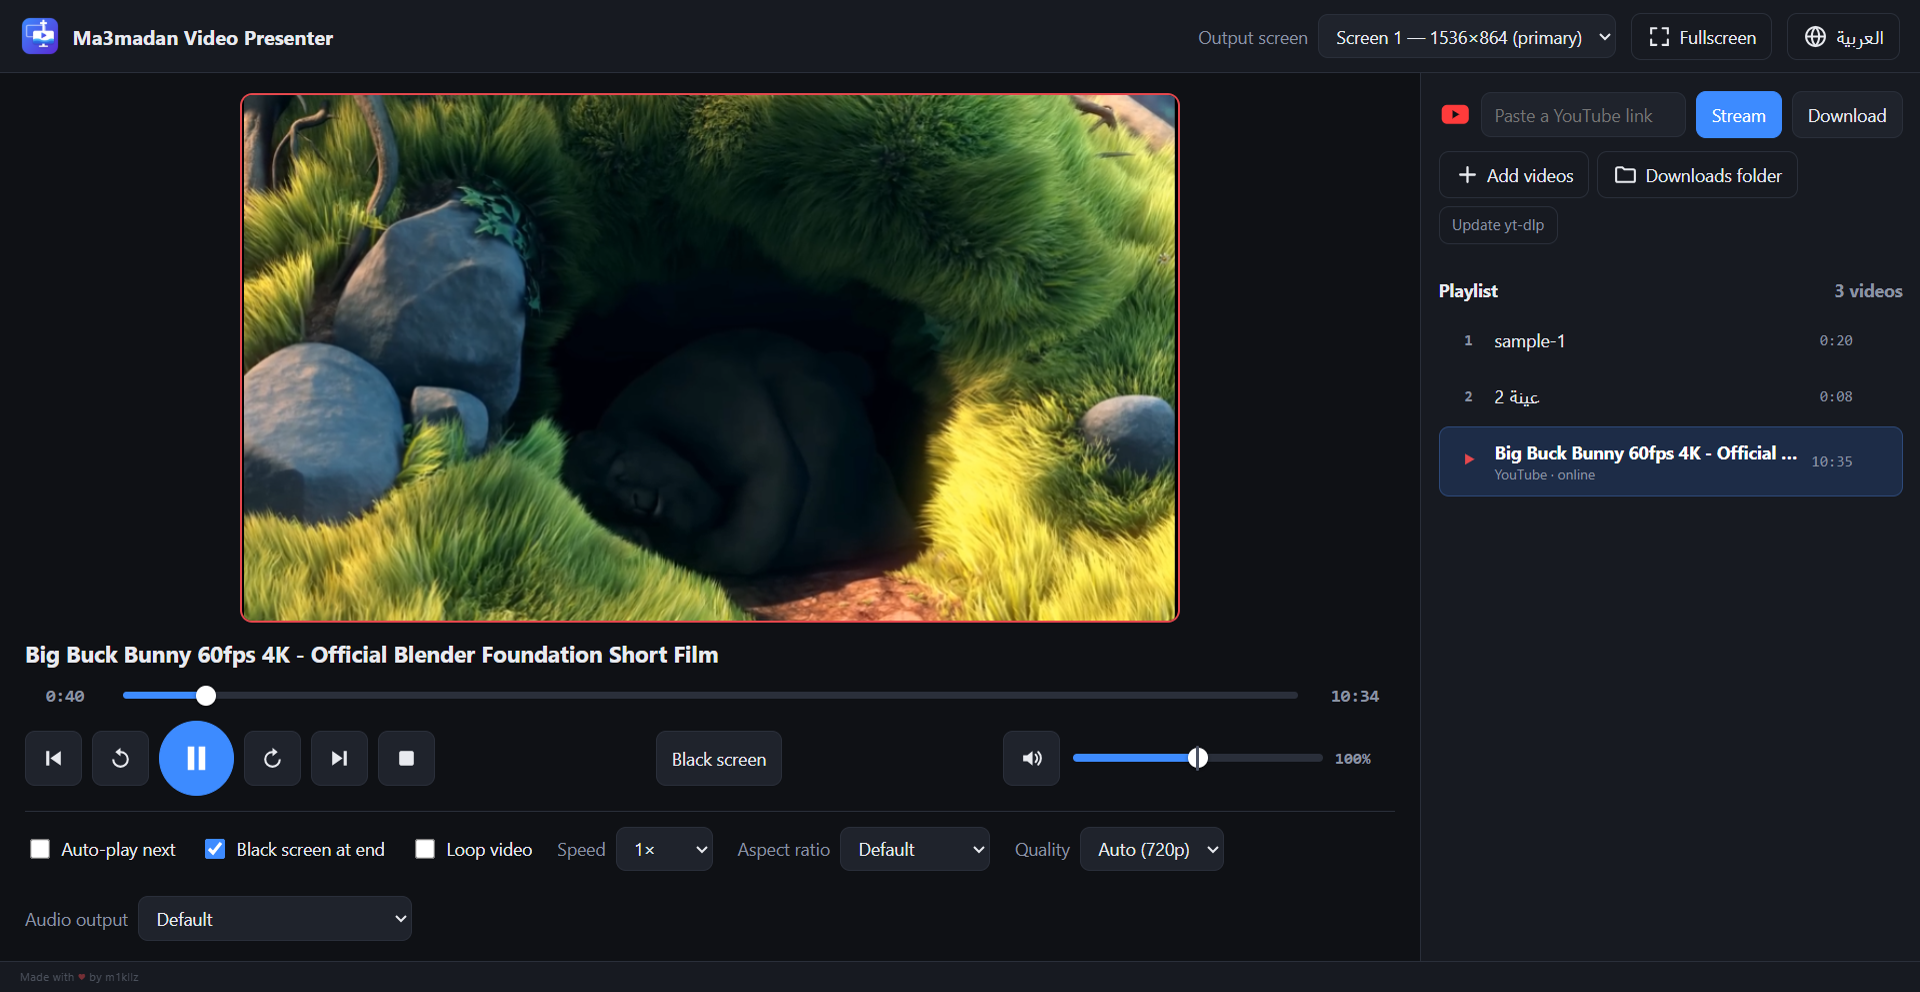
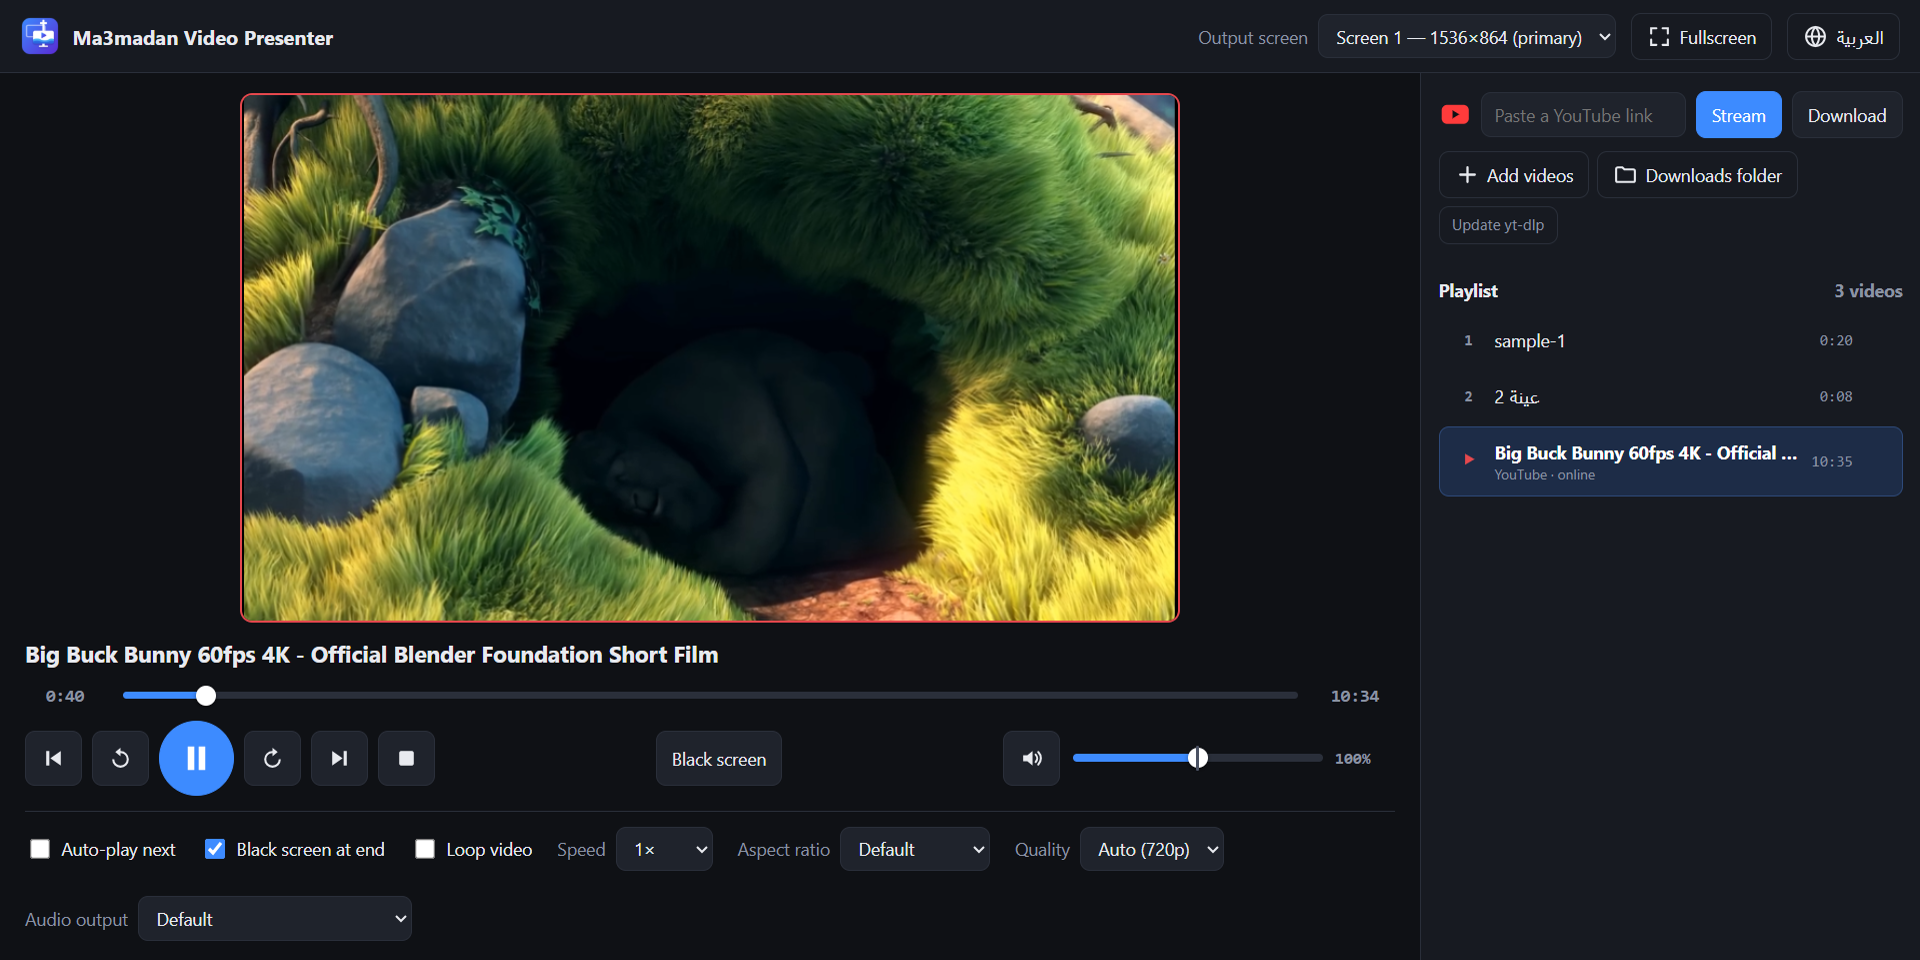
Remove credit line and dedicate to the public domain

diff --git a/src/control.css b/src/control.css
@@ -16,7 +16,7 @@ html, body { margin: 0; height: 100%; }
 body {
   background: var(--bg); color: var(--text);
   font: 14px/1.45 "Segoe UI", Tahoma, sans-serif;
-  display: grid; grid-template-rows: auto 1fr auto; overflow: hidden;
+  display: grid; grid-template-rows: auto 1fr; overflow: hidden;
   user-select: none;
 }
 svg { width: 20px; height: 20px; flex: none; }
@@ -140,12 +140,6 @@ input[type=range]::-webkit-slider-thumb { -webkit-appearance: none; width: 16px;
 .item-del svg { width: 15px; height: 15px; }
 .empty-list { color: var(--muted); text-align: center; padding: 30px 10px; border: 1px dashed var(--line); border-radius: var(--radius); }
 
-footer {
-  display: flex; align-items: center; justify-content: space-between; gap: 18px; padding: 6px 16px; font-size: 12px;
-  color: var(--muted); background: var(--panel); border-top: 1px solid var(--line);
-}
-.credit { margin-right: auto; font-size: 9px; opacity: .45; white-space: nowrap; letter-spacing: .2px; }
-.credit b { color: var(--live); font-weight: 400; }
 
 .toast {
   position: fixed; bottom: 54px; left: 50%; transform: translateX(-50%) translateY(20px);

diff --git a/src/control.html b/src/control.html
@@ -125,9 +125,6 @@
   </aside>
 </main>
 
-<footer>
-  <span class="credit" dir="ltr">Made with <b>♥</b> by m1kllz</span>
-</footer>
 
 <div id="toast" class="toast"></div>
 <div id="dropZone" class="drop-zone" data-i18n="dropHere"></div>

diff --git a/README.md b/README.md
@@ -141,4 +141,4 @@ Only use YouTube content you have the right to show, and follow YouTube's Terms 
 
 ## License
 
-[MIT](LICENSE) © Michael Saad
+Public domain ([The Unlicense](LICENSE)). Use it, copy it, change it, share it with other churches. No credit needed.
